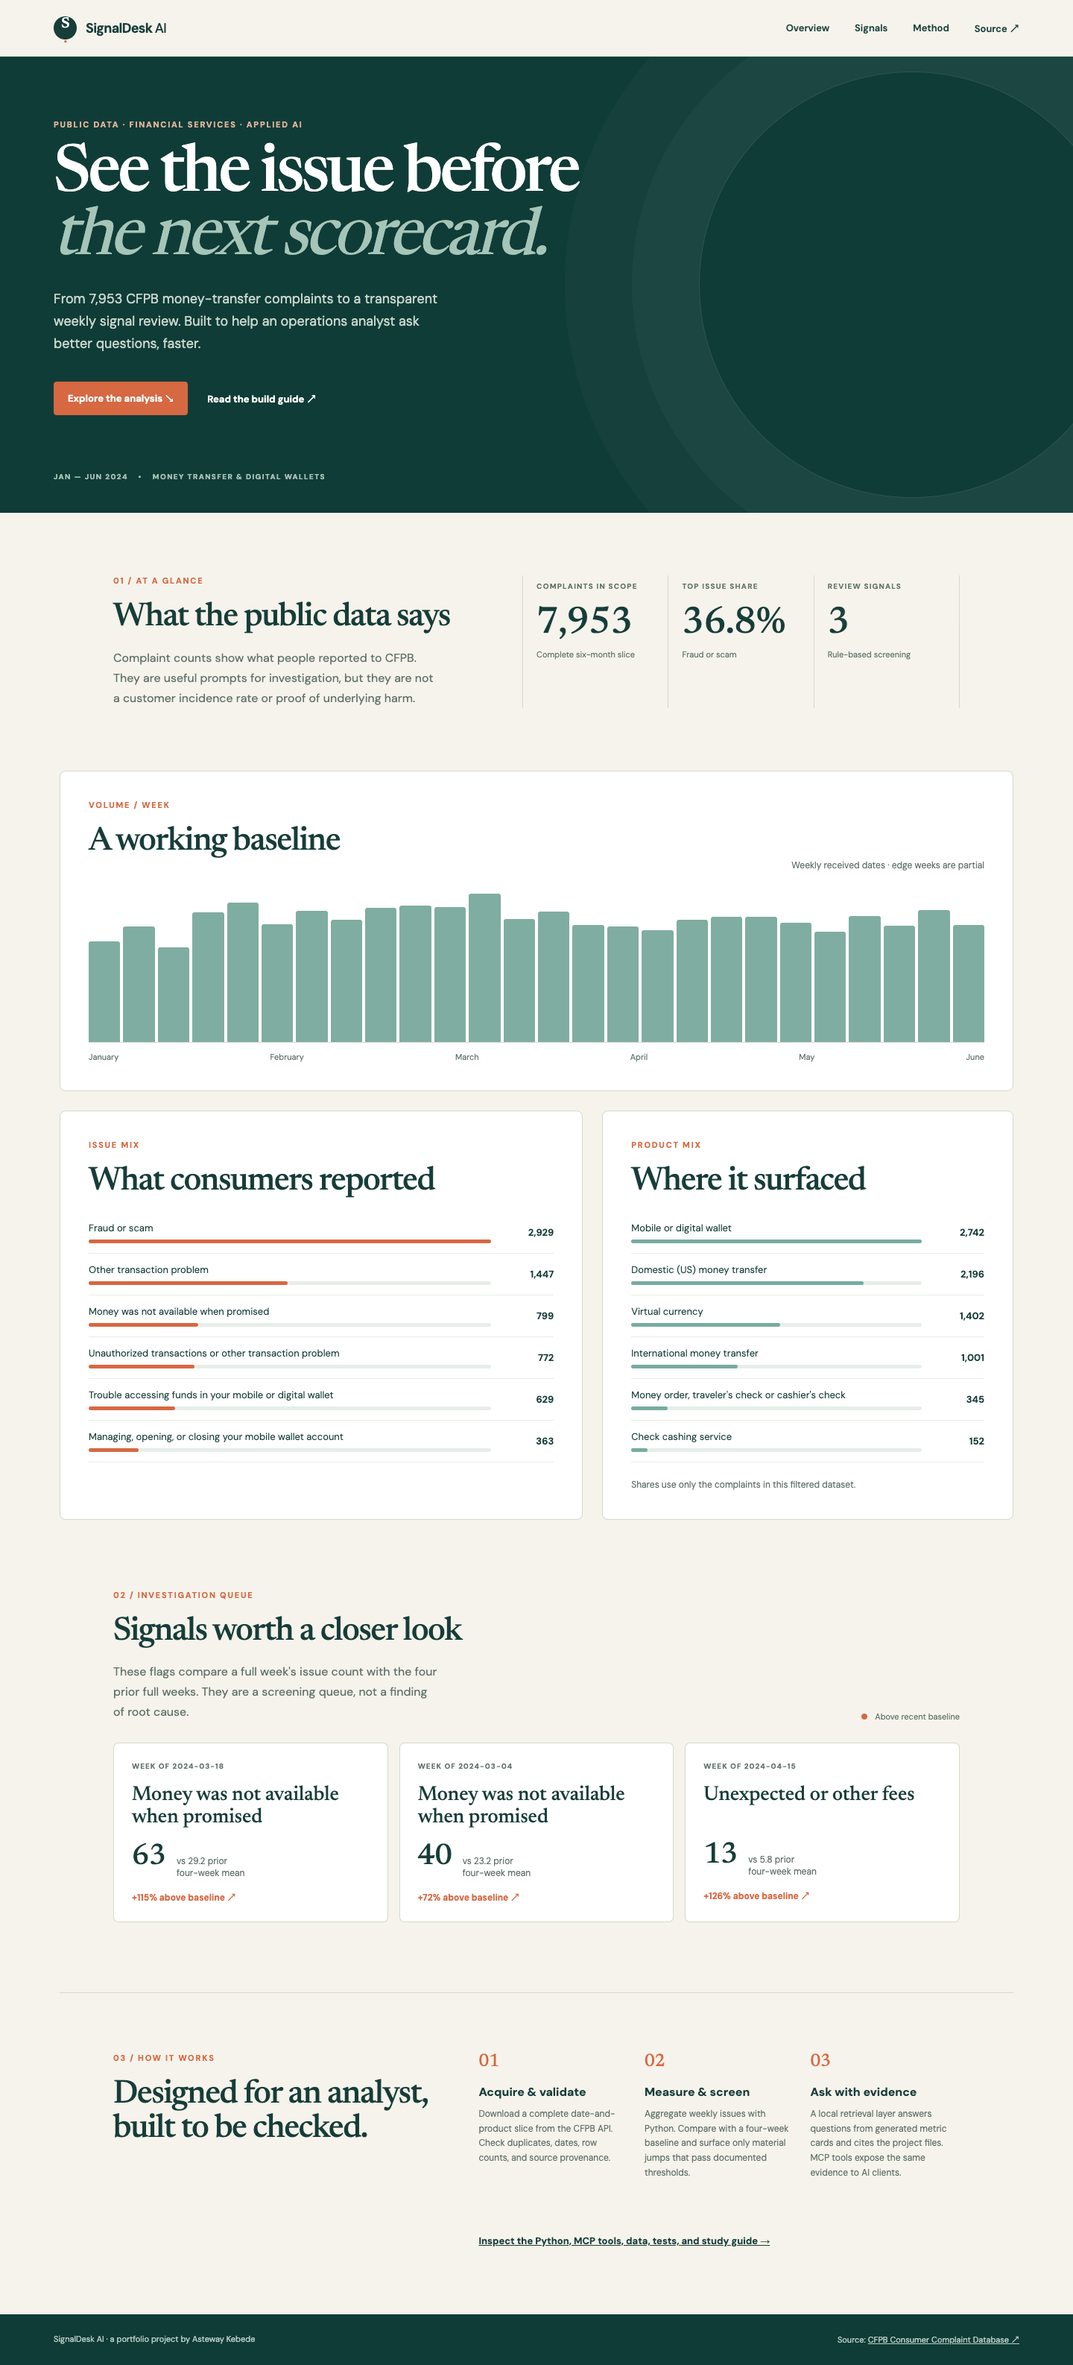
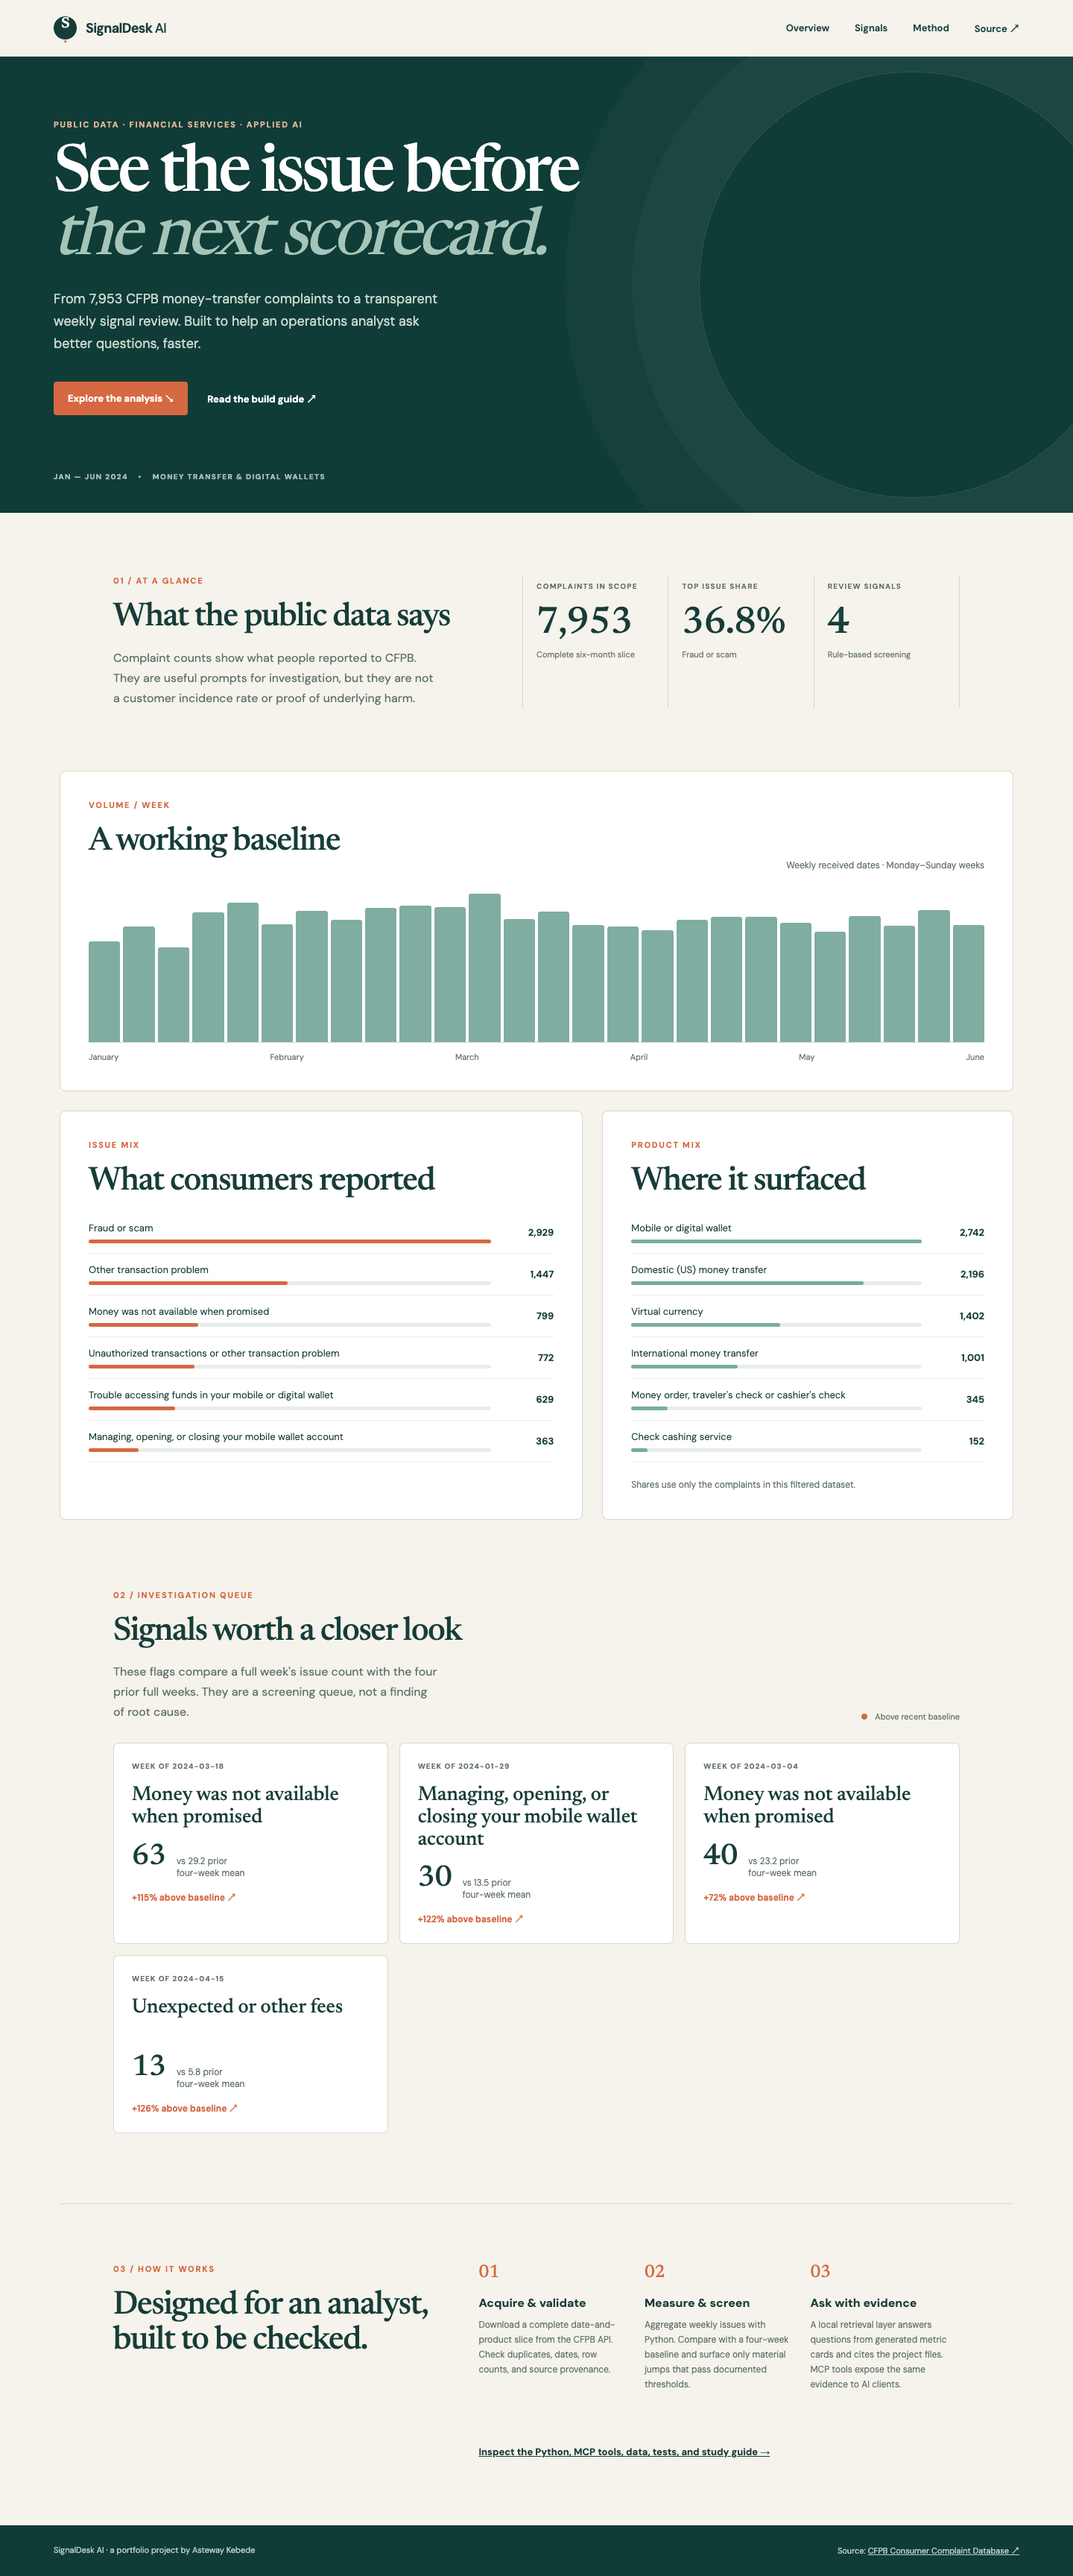
Correct complete-week screening and refresh results

diff --git a/web/data.js b/web/data.js
@@ -1,1 +1,1 @@
-window.SIGNALDESK_DATA = {"title":"SignalDesk AI | Money transfer complaint intelligence","source":"CFPB Consumer Complaint Database","period":"2024-01-01 to 2024-06-30","total":7953,"weeks":[{"week":"2024-01-01","count":251},{"week":"2024-01-08","count":287},{"week":"2024-01-15","count":235},{"week":"2024-01-22","count":323},{"week":"2024-01-29","count":347},{"week":"2024-02-05","count":293},{"week":"2024-02-12","count":327},{"week":"2024-02-19","count":304},{"week":"2024-02-26","count":333},{"week":"2024-03-04","count":340},{"week":"2024-03-11","count":336},{"week":"2024-03-18","count":368},{"week":"2024-03-25","count":305},{"week":"2024-04-01","count":324},{"week":"2024-04-08","count":291},{"week":"2024-04-15","count":287},{"week":"2024-04-22","count":279},{"week":"2024-04-29","count":304},{"week":"2024-05-06","count":311},{"week":"2024-05-13","count":312},{"week":"2024-05-20","count":297},{"week":"2024-05-27","count":275},{"week":"2024-06-03","count":314},{"week":"2024-06-10","count":289},{"week":"2024-06-17","count":329},{"week":"2024-06-24","count":292}],"issues":[{"name":"Fraud or scam","count":2929},{"name":"Other transaction problem","count":1447},{"name":"Money was not available when promised","count":799},{"name":"Unauthorized transactions or other transaction problem","count":772},{"name":"Trouble accessing funds in your mobile or digital wallet","count":629},{"name":"Managing, opening, or closing your mobile wallet account","count":363},{"name":"Other service problem","count":256},{"name":"Problem with customer service","count":174},{"name":"Unexpected or other fees","count":166},{"name":"Confusing or missing disclosures","count":158},{"name":"Lost or stolen money order","count":89},{"name":"Wrong amount charged or received","count":77}],"sub_products":[{"name":"Mobile or digital wallet","count":2742},{"name":"Domestic (US) money transfer","count":2196},{"name":"Virtual currency","count":1402},{"name":"International money transfer","count":1001},{"name":"Money order, traveler's check or cashier's check","count":345},{"name":"Check cashing service","count":152},{"name":"Foreign currency exchange","count":115}],"channels":[{"name":"Web","count":7137},{"name":"Phone","count":550},{"name":"Referral","count":214},{"name":"Postal mail","count":52}],"states":[{"name":"CA","count":1128},{"name":"FL","count":644},{"name":"TX","count":637},{"name":"NY","count":558},{"name":"Unknown","count":408},{"name":"GA","count":319},{"name":"IL","count":304},{"name":"PA","count":273},{"name":"NJ","count":266},{"name":"VA","count":225},{"name":"OH","count":223},{"name":"NC","count":195}],"timeliness":[{"name":"Yes","count":7709},{"name":"No","count":244}],"signals":[{"issue":"Money was not available when promised","week":"2024-03-18","observed":63,"baseline":29.2,"score":6.24,"change_pct":115},{"issue":"Money was not available when promised","week":"2024-03-04","observed":40,"baseline":23.2,"score":3.47,"change_pct":72},{"issue":"Unexpected or other fees","week":"2024-04-15","observed":13,"baseline":5.8,"score":3.02,"change_pct":126}],"method":"Four prior complete weeks; flag when count >=10, baseline >=5, score >=3 and observed >=1.4x baseline. Screening only."};
+window.SIGNALDESK_DATA = {"title":"SignalDesk AI | Money transfer complaint intelligence","source":"CFPB Consumer Complaint Database","period":"2024-01-01 to 2024-06-30","total":7953,"weeks":[{"week":"2024-01-01","count":251},{"week":"2024-01-08","count":287},{"week":"2024-01-15","count":235},{"week":"2024-01-22","count":323},{"week":"2024-01-29","count":347},{"week":"2024-02-05","count":293},{"week":"2024-02-12","count":327},{"week":"2024-02-19","count":304},{"week":"2024-02-26","count":333},{"week":"2024-03-04","count":340},{"week":"2024-03-11","count":336},{"week":"2024-03-18","count":368},{"week":"2024-03-25","count":305},{"week":"2024-04-01","count":324},{"week":"2024-04-08","count":291},{"week":"2024-04-15","count":287},{"week":"2024-04-22","count":279},{"week":"2024-04-29","count":304},{"week":"2024-05-06","count":311},{"week":"2024-05-13","count":312},{"week":"2024-05-20","count":297},{"week":"2024-05-27","count":275},{"week":"2024-06-03","count":314},{"week":"2024-06-10","count":289},{"week":"2024-06-17","count":329},{"week":"2024-06-24","count":292}],"issues":[{"name":"Fraud or scam","count":2929},{"name":"Other transaction problem","count":1447},{"name":"Money was not available when promised","count":799},{"name":"Unauthorized transactions or other transaction problem","count":772},{"name":"Trouble accessing funds in your mobile or digital wallet","count":629},{"name":"Managing, opening, or closing your mobile wallet account","count":363},{"name":"Other service problem","count":256},{"name":"Problem with customer service","count":174},{"name":"Unexpected or other fees","count":166},{"name":"Confusing or missing disclosures","count":158},{"name":"Lost or stolen money order","count":89},{"name":"Wrong amount charged or received","count":77}],"sub_products":[{"name":"Mobile or digital wallet","count":2742},{"name":"Domestic (US) money transfer","count":2196},{"name":"Virtual currency","count":1402},{"name":"International money transfer","count":1001},{"name":"Money order, traveler's check or cashier's check","count":345},{"name":"Check cashing service","count":152},{"name":"Foreign currency exchange","count":115}],"channels":[{"name":"Web","count":7137},{"name":"Phone","count":550},{"name":"Referral","count":214},{"name":"Postal mail","count":52}],"states":[{"name":"CA","count":1128},{"name":"FL","count":644},{"name":"TX","count":637},{"name":"NY","count":558},{"name":"Unknown","count":408},{"name":"GA","count":319},{"name":"IL","count":304},{"name":"PA","count":273},{"name":"NJ","count":266},{"name":"VA","count":225},{"name":"OH","count":223},{"name":"NC","count":195}],"timeliness":[{"name":"Yes","count":7709},{"name":"No","count":244}],"signals":[{"issue":"Money was not available when promised","week":"2024-03-18","observed":63,"baseline":29.2,"score":6.24,"change_pct":115},{"issue":"Managing, opening, or closing your mobile wallet account","week":"2024-01-29","observed":30,"baseline":13.5,"score":4.49,"change_pct":122},{"issue":"Money was not available when promised","week":"2024-03-04","observed":40,"baseline":23.2,"score":3.47,"change_pct":72},{"issue":"Unexpected or other fees","week":"2024-04-15","observed":13,"baseline":5.8,"score":3.02,"change_pct":126}],"method":"Four prior complete weeks; flag when count >=10, baseline >=5, score >=3 and observed >=1.4x baseline. Screening only."};

diff --git a/web/index.html b/web/index.html
@@ -5,7 +5,7 @@
 <main id="top">
 <section class="hero"><div class="eyebrow">PUBLIC DATA · FINANCIAL SERVICES · APPLIED AI</div><h1>See the issue before<br><em>the next scorecard.</em></h1><p>From 7,953 CFPB money-transfer complaints to a transparent weekly signal review. Built to help an operations analyst ask better questions, faster.</p><div class="hero-actions"><a class="button" href="#overview">Explore the analysis ↘</a><a class="plain" href="https://github.com/kasteway/signaldesk-ai/blob/main/docs/STUDY_GUIDE.md" target="_blank" rel="noopener">Read the build guide ↗</a></div><div class="hero-stamp">JAN — JUN 2024 <span>•</span> MONEY TRANSFER & DIGITAL WALLETS</div></section>
 <section class="intro" id="overview"><div><div class="eyebrow">01 / AT A GLANCE</div><h2>What the public data says</h2><p>Complaint counts show what people reported to CFPB. They are useful prompts for investigation, but they are not a customer incidence rate or proof of underlying harm.</p></div><div class="kpis"><div><span>COMPLAINTS IN SCOPE</span><strong id="total">—</strong><small>Complete six-month slice</small></div><div><span>TOP ISSUE SHARE</span><strong id="top-share">—</strong><small id="top-label">—</small></div><div><span>REVIEW SIGNALS</span><strong id="signal-count">—</strong><small>Rule-based screening</small></div></div></section>
-<section class="panel"><div class="panel-head"><div><div class="eyebrow">VOLUME / WEEK</div><h2>A working baseline</h2></div><div class="filter-note">Weekly received dates · edge weeks are partial</div></div><div id="trend" class="chart" role="img" aria-label="Weekly complaint count bar chart"></div><div class="axis-caption">January <span>February</span><span>March</span><span>April</span><span>May</span> June</div></section>
+<section class="panel"><div class="panel-head"><div><div class="eyebrow">VOLUME / WEEK</div><h2>A working baseline</h2></div><div class="filter-note">Weekly received dates · Monday–Sunday weeks</div></div><div id="trend" class="chart" role="img" aria-label="Weekly complaint count bar chart"></div><div class="axis-caption">January <span>February</span><span>March</span><span>April</span><span>May</span> June</div></section>
 <section class="split"><div class="panel issues"><div class="eyebrow">ISSUE MIX</div><h2>What consumers reported</h2><div id="issues"></div></div><div class="panel products"><div class="eyebrow">PRODUCT MIX</div><h2>Where it surfaced</h2><div id="products"></div><p class="aside">Shares use only the complaints in this filtered dataset.</p></div></section>
 <section class="signals" id="signals"><div class="section-heading"><div><div class="eyebrow">02 / INVESTIGATION QUEUE</div><h2>Signals worth a closer look</h2><p>These flags compare a full week's issue count with the four prior full weeks. They are a screening queue, not a finding of root cause.</p></div><div class="legend"><i></i> Above recent baseline</div></div><div id="signal-list" class="signal-list"></div></section>
 <section class="method" id="method"><div><div class="eyebrow">03 / HOW IT WORKS</div><h2>Designed for an analyst,<br>built to be checked.</h2></div><div class="method-grid"><article><b>01</b><h3>Acquire & validate</h3><p>Download a complete date-and-product slice from the CFPB API. Check duplicates, dates, row counts, and source provenance.</p></article><article><b>02</b><h3>Measure & screen</h3><p>Aggregate weekly issues with Python. Compare with a four-week baseline and surface only material jumps that pass documented thresholds.</p></article><article><b>03</b><h3>Ask with evidence</h3><p>A local retrieval layer answers questions from generated metric cards and cites the project files. MCP tools expose the same evidence to AI clients.</p></article></div><p class="method-link"><a href="https://github.com/kasteway/signaldesk-ai" target="_blank" rel="noopener">Inspect the Python, MCP tools, data, tests, and study guide →</a></p></section>

diff --git a/signaldesk/core.py b/signaldesk/core.py
@@ -51,8 +51,8 @@ def analyze(rows: list[dict]) -> dict:
         timely_total[row["timely"] or "Unknown"] += 1
 
     weeks = sorted(by_week)
-    # The first and last weeks are partial calendar weeks; show them but do not alert on them.
-    complete_weeks = [w for w in weeks if w >= "2024-01-08" and w <= "2024-06-17"]
+    # This extract begins on Monday and ends on Sunday, so every observed week is complete.
+    complete_weeks = weeks
     signals = []
     for issue, total in issue_total.items():
         if total < 100:

diff --git a/tests/test_signaldesk.py b/tests/test_signaldesk.py
@@ -22,7 +22,7 @@ class SignalDeskTests(unittest.TestCase):
             self.assertGreaterEqual(s['baseline'], 5)
             self.assertGreaterEqual(s['score'], 3)
             self.assertGreaterEqual(s['observed']/s['baseline'], 1.4)
-            self.assertGreaterEqual(s['week'], '2024-02-05')
+            self.assertGreaterEqual(s['week'], '2024-01-29')
 
     def test_retrieval_grounding(self):
         hits = retrieve('fraud scam', cards(self.data))

diff --git a/METHOD.md b/METHOD.md
@@ -17,7 +17,7 @@ Records are grouped by Monday-start calendar week and issue. For each complete w
 3. Observed is at least 1.4 times the prior mean.
 4. `(observed − expected) / sqrt(expected)` is at least 3.
 
-The first and final calendar weeks in the date range are partial and are excluded from signal scoring. This is a heuristic based on a Poisson-style variance assumption; it is not a calibrated probability or a causal result. It can be sensitive to seasonality, duplicate behavior, changing CFPB category definitions, and the fact that publication and complaint dates differ. An investigation should validate the source and compare with exposure denominators.
+This extract begins on Monday and ends on Sunday, so both edge weeks are complete. The first four weeks provide the initial baseline; scoring starts with the fifth week. This is a heuristic based on a Poisson-style variance assumption; it is not a calibrated probability or a causal result. It can be sensitive to seasonality, duplicate behavior, changing CFPB category definitions, and the fact that publication and complaint dates differ. An investigation should validate the source and compare with exposure denominators.
 
 ## Retrieval and MCP boundaries
 

diff --git a/docs/STUDY_GUIDE.md b/docs/STUDY_GUIDE.md
@@ -18,7 +18,7 @@ CFPB public API → complete filtered extract → validation → weekly aggregat
 
 - **Data acquisition:** Three bounded CFPB API calls. Each returned record count must equal the API total. See [`data/provenance.json`](../data/provenance.json).
 - **Validation:** Duplicate IDs, allowed date range, and expected product. See [`signaldesk/core.py`](../signaldesk/core.py).
-- **Measurement:** Monday-start weekly totals and issue mix; incomplete edge weeks are not screened.
+- **Measurement:** Monday-start weekly totals and issue mix; the January–June 2024 extract consists of complete Monday–Sunday weeks, with the first four used as baseline.
 - **Statistical screening:** Four-week mean plus absolute and relative thresholds. See [`METHOD.md`](../METHOD.md).
 - **Evidence retrieval:** Local term weighting over computed cards; returns cited facts. See [`signaldesk/brief.py`](../signaldesk/brief.py).
 - **Tool use:** An AI client can ask MCP for overview, signals, or cited evidence. See [`signaldesk/mcp_server.py`](../signaldesk/mcp_server.py).

diff --git a/README.md b/README.md
@@ -31,7 +31,7 @@ Then open `http://localhost:8000/web/`. To use the MCP server, configure your cl
 
 ## Review the result
 
-The leading issue in this filtered slice is **Fraud or scam**: 2,929 complaints, or 36.8% of complaints in scope. The weekly screen surfaces three issue-week combinations for review. The method, thresholds, edge-week treatment, source query, and test cases are explained in [`METHOD.md`](METHOD.md). The count is *not* a population-adjusted fraud rate.
+The leading issue in this filtered slice is **Fraud or scam**: 2,929 complaints, or 36.8% of complaints in scope. The weekly screen surfaces four issue-week combinations for review. The method, thresholds, edge-week treatment, source query, and test cases are explained in [`METHOD.md`](METHOD.md). The count is *not* a population-adjusted fraud rate.
 
 ## Where I would take it in a business setting
 
